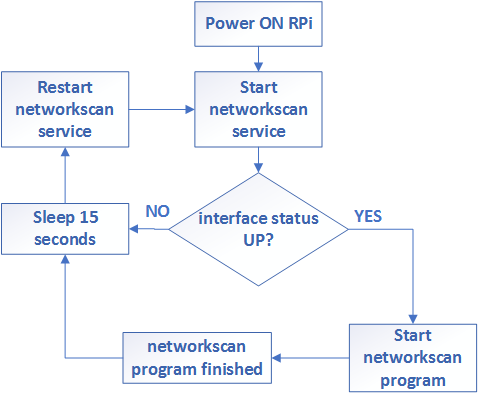
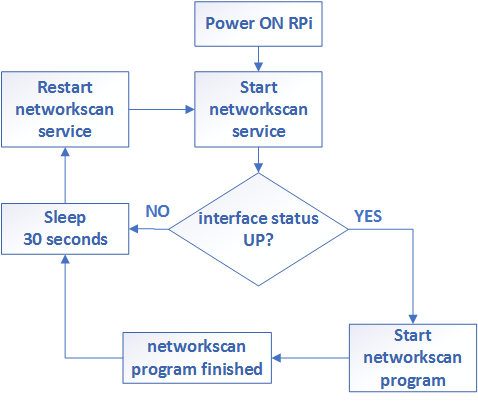
25.03.2020

Changed region(s): [[0.0293, 0.5087, 0.2343, 0.6284]]

diff --git a/README.md b/README.md
@@ -27,13 +27,13 @@
     - Do http auth request with default manufacturer password
 - **Write scanned results to /tmp/output.txt**
 - **Send output.txt to remote destination via Bluetooth**
-- **Sleep 15 seconds and restart service**
+- **Sleep 30 seconds and restart service**
 
 ![Interface UP](interface_up.gif)
 ### Receiving scanned results from Raspberry Pi
 ![Bluetooth android](bluetooth_android.gif)
 ### Service behavior - Interface DOWN
-- **Keeps restarting every 15 seconds indefinitely if no network detected**
+- **Keeps restarting every 30 seconds indefinitely if no network detected**
 
 ![Interface DOWN](interface_down.gif)
 ### Networkscan program
